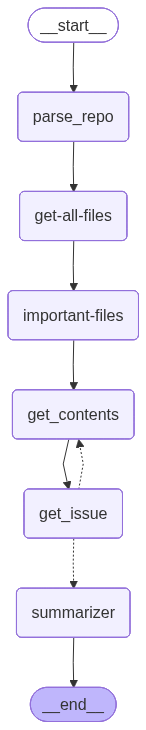
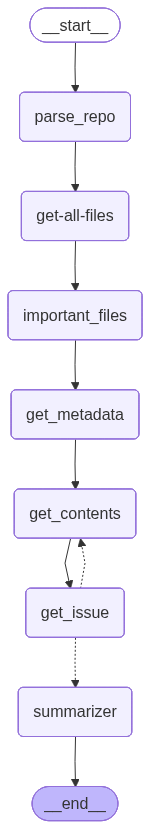
added repo metadata node to make agent feel intelligent

diff --git a/agent/graph.py b/agent/graph.py
@@ -1,6 +1,4 @@
 # Defining State
-from typing_extensions import  Literal
-from langchain.messages import AnyMessage
 from agent.conditions import should_continue
 from agent.nodes.get_issue import get_issue
 from agent.nodes.get_contents import get_contents_of_file
@@ -13,10 +11,7 @@ from tools.github import  get_file_content
 from langgraph.graph import StateGraph,START,END
 from llm.ollama import llm
 from dotenv import load_dotenv
-from pydantic import BaseModel
-import operator
-from typing import Annotated
-from langchain_core.tools import tool
+from agent.nodes.git_metadata import get_metadata
 from utils.image_show import show_image
 load_dotenv()
 
@@ -29,15 +24,17 @@ llm_with_tools = llm.bind_tools([get_file_content])
 agent_builder = StateGraph(state_schema=MessageState)
 agent_builder.add_node("parse_repo",parse_repo)
 agent_builder.add_node("get-all-files",get_repo_files)
-agent_builder.add_node("important-files",get_important_files)
+agent_builder.add_node("important_files",get_important_files)
 agent_builder.add_node("get_contents",get_contents_of_file)
 agent_builder.add_node("get_issue",get_issue)
 agent_builder.add_node("summarizer",summarization_node)
+agent_builder.add_node("get_metadata",get_metadata)
 
 agent_builder.add_edge(START,"parse_repo")
 agent_builder.add_edge("parse_repo","get-all-files")
-agent_builder.add_edge("get-all-files","important-files")
-agent_builder.add_edge("important-files","get_contents")
+agent_builder.add_edge("get-all-files","important_files")
+agent_builder.add_edge("important_files","get_metadata")
+agent_builder.add_edge("get_metadata","get_contents")
 # agent_builder.add_conditional_edges("get_contents",should_continue,["get_issue","summarizer"])
 # agent_builder.add_edge("get_issue","get_contents")
 agent_builder.add_edge("get_contents","get_issue")

diff --git a/tools/github.py b/tools/github.py
@@ -1,51 +1,12 @@
 import requests
 import os
 from dotenv import load_dotenv
-load_dotenv()
-
-
-
-
 from langchain_core.tools import tool
-GITHUB_API = "https://api.github.com"
-HEADERS = {
-    "Authorization": f"Bearer {os.getenv('GITHUB_TOKEN')}",
-    "Accept": "application/vnd.github+json"
-}
 from langchain.messages import ToolMessage
-
-
-
-
 import requests
-from typing import List
+from config.github import GITHUB_API,HEADERS
 
-GITHUB_API = "https://api.github.com"
-
-# def fetch_repo_files(
-#     owner: str,
-#     repo: str,
-#     path: str,
-#     headers: dict
-# ) -> List[str]:
-#     url = f"{GITHUB_API}/repos/{owner}/{repo}/contents/{path}"
-#     response = requests.get(url, headers=headers)
-#     response.raise_for_status()
-
-#     items = response.json()
-#     files = []
-
-#     for item in items:
-#         if item["type"] == "file":
-#             files.append(item["path"])
-#         elif item["type"] == "dir":
-#             files.extend(
-#                 fetch_repo_files(owner, repo, item["path"], headers)
-#             )
-
-#     return files
-
-
+load_dotenv()
 
 
 

diff --git a/agent/nodes/git_metadata.py b/agent/nodes/git_metadata.py
@@ -1,0 +1,25 @@
+from models.state import MessageState,RepoMetaData
+from llm.ollama import llm
+from langchain.messages import SystemMessage,HumanMessage
+
+
+llm_with_structured_output = llm.with_structured_output(RepoMetaData)
+
+def get_metadata(state:MessageState):
+    response = llm_with_structured_output.invoke([
+        SystemMessage(content="""You analyze a GitHub repository at a high level. 
+                "Infer tech stack, languages, frameworks, license, 
+                "and project maturity based on file names, structure, 
+                "README content, and dependencies."""),
+        HumanMessage(content=f""" Repository Files
+                     {state.files}
+                    """)
+    ])
+    return MessageState(
+      repo_metadata=response,
+      llm_calls=state.llm_calls,
+      files=state.files,
+      owner = state.owner,
+      repo=state.repo,
+      messages=[]
+    )

diff --git a/models/state.py b/models/state.py
@@ -1,5 +1,5 @@
-from pydantic import BaseModel
-from typing_extensions import Annotated
+from pydantic import BaseModel,Field
+from typing_extensions import Annotated,List,Dict,Literal
 from operator import add
 from langchain.messages import AnyMessage
 
@@ -9,6 +9,15 @@ class ObservationState(BaseModel):
     severity:str
     issue:str
 
+
+class RepoMetaData(BaseModel):
+    tech_stack:List[str] = Field(description="Tech stacks used")
+    license:str | None
+    project_maturity:Literal["Prototype",
+        "Early / MVP",
+        "Production-ready",
+        "Mature"]
+    
 
 class MessageState(BaseModel):
     messages : Annotated[list[AnyMessage],add]
@@ -22,3 +31,5 @@ class MessageState(BaseModel):
     curr_observation:str = ""
     issue_called: int| None = 0
     final_observations:str| None = None
+    repo_metadata:RepoMetaData | None = None
+

diff --git a/agent/nodes/summarize.py b/agent/nodes/summarize.py
@@ -16,7 +16,12 @@ def summarization_node(state:MessageState):
         1. Top 3 issue categories by frequency
         2. Critical issues (security/bugs blocking functionality) 
         3. Overall severity distribution
-        4. One key recommendation per major category""")])
+        4. One key recommendation per major category 
+        
+        Repo Metadata:
+        {state.repo_metadata}
+        
+        """)])
     
     return MessageState(
         messages=[response],                 

diff --git a/agent/nodes/get_contents.py b/agent/nodes/get_contents.py
@@ -7,11 +7,13 @@ def get_contents_of_file(state:MessageState) -> str:
     repo = state.repo
     currIndex = state.curr_index
     file = state.files[currIndex]
+    
     content = get_file_content.invoke({
         "owner": owner,
         "repo": repo,
         "file_path": file
     })
+
     return MessageState(
         messages=[],
         curr_index=state.curr_index,

diff --git a/llm/ollama.py b/llm/ollama.py
@@ -2,4 +2,4 @@
 from langchain_ollama import ChatOllama
 
 
-llm = ChatOllama(model="phi3:mini",temperature=0)
+llm = ChatOllama(model="llama3.1:8b",temperature=0)
